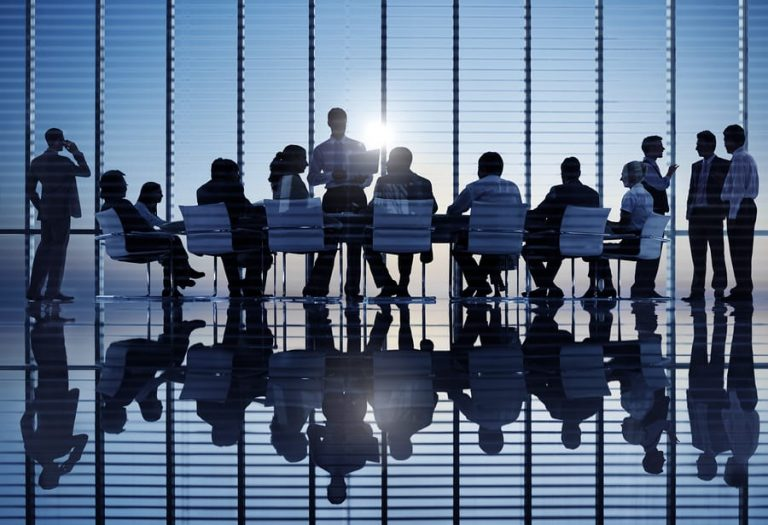
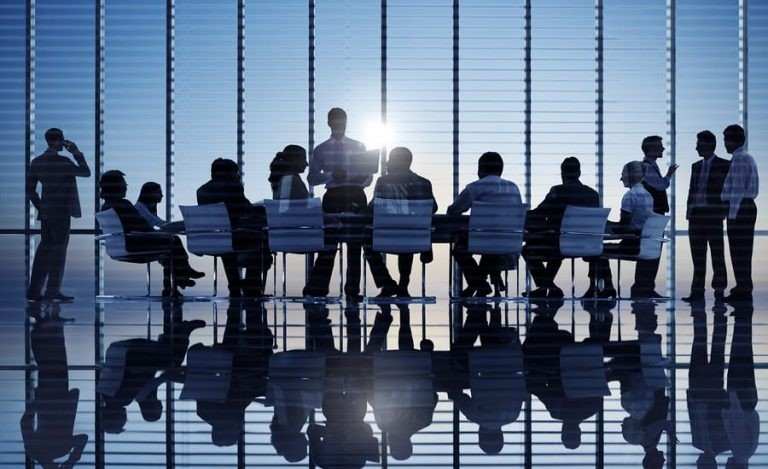
Add directors card

diff --git a/src/components/pages/BoardOfDirectorsPage.jsx b/src/components/pages/BoardOfDirectorsPage.jsx
@@ -4,12 +4,63 @@ import { Layout } from '../common'
 const BoardOfDirectorsPage = () => {
   return (
     <Layout pageTitle="Board of Directors">
-      <div className="w-full h-screen">
+      <div className="w-full h-[540px]">
         <img
           className="w-full h-full object-cover rounded-b-xl"
           src="/src/assets/Bord Directors.jpg"
           alt="Board of Directors"
         />
+      </div>
+
+      {/* Directors Section */}
+      <div className="py-16 bg-gray-50">
+        <h2 className="text-4xl font-bold text-center mb-12 text-gray-800">
+          Meet Our Board of Directors
+        </h2>
+
+        <div className="max-w-6xl mx-auto grid grid-cols-1 sm:grid-cols-2 lg:grid-cols-3 gap-10 px-6">
+          {/* Director 1 */}
+          <div className="bg-white shadow-lg rounded-2xl p-6 text-center hover:shadow-2xl transition">
+            <img
+              src="/src/assets/Sample_director.png"
+              alt="Director 1"
+              className="w-40 h-40 object-cover rounded-full mx-auto mb-4"
+            />
+            <h3 className="text-xl font-semibold text-gray-800">Mr. John Smith</h3>
+            <p className="text-gray-500">Chairman</p>
+            <p className="mt-3 text-gray-600 text-sm">
+              With over 20 years of leadership experience, John guides the company’s strategic vision.
+            </p>
+          </div>
+
+          {/* Director 2 */}
+          <div className="bg-white shadow-lg rounded-2xl p-6 text-center hover:shadow-2xl transition">
+            <img
+              src="/src/assets/Sample_director.png"
+              alt="Director 2"
+              className="w-40 h-40 object-cover rounded-full mx-auto mb-4"
+            />
+            <h3 className="text-xl font-semibold text-gray-800">Ms. Jane Doe</h3>
+            <p className="text-gray-500">Managing Director</p>
+            <p className="mt-3 text-gray-600 text-sm">
+              Jane oversees day-to-day operations and ensures organizational excellence.
+            </p>
+          </div>
+
+          {/* Director 3 */}
+          <div className="bg-white shadow-lg rounded-2xl p-6 text-center hover:shadow-2xl transition">
+            <img
+              src="/src/assets/Sample_director.png"
+              alt="Director 3"
+              className="w-40 h-40 object-cover rounded-full mx-auto mb-4"
+            />
+            <h3 className="text-xl font-semibold text-gray-800">Mr. Alex Johnson</h3>
+            <p className="text-gray-500">Finance Director</p>
+            <p className="mt-3 text-gray-600 text-sm">
+              Alex manages the company’s financial planning and risk management.
+            </p>
+          </div>
+        </div>
       </div>
     </Layout>
   )
